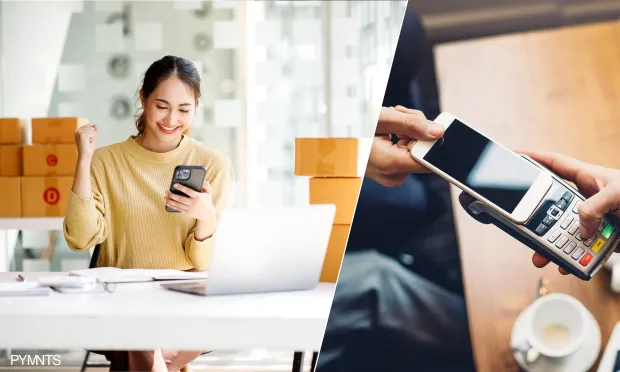
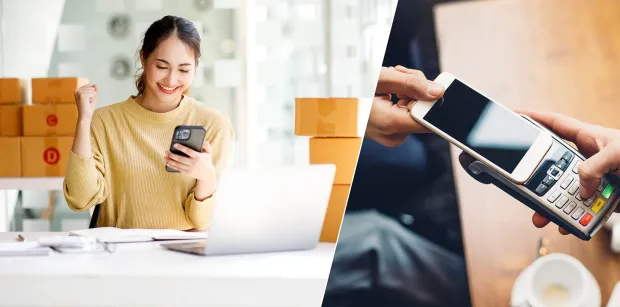
Estilos de cards / inclusión de h2 / modificación imagen de portada

diff --git a/index.html b/index.html
@@ -81,12 +81,12 @@
                   </ul>
               <!-- ************************ -->
               
-              <!-- Sesiones -->
+              <!-- Botones de lasSesiones -->
                 <div class="sesiones">
                     <button class="btn1"> <a href="./pages/inicio_sesion.html">Iniciar sesión</a> </button>
                     <button class="btn2"> <a href="./pages/abrir_cuenta.html">Abrir cuenta gratis</a> </button>
                 </div>
-              <!-- ********* -->
+              <!-- ********************** -->
               
               <!-- ****** MENÚ HAMBURGUESA ****** -->
               <div class="navbarHambur">
@@ -100,30 +100,30 @@
         
         <!-- ***************** Cuerpo Principal de la página ******************** -->
         <main>
+            <!-- Sección foto de portada -->
             <section class="portadaContainer">
                 <!-- foto principal o carousel .... -->
-                <img src="./img/portada2.png" alt="portada" class="portadaImg">
+                <img src="./img/portada1.png" alt="portada" class="portadaImg">
                 <div class="portadaContenido">
                   <div class="portadaTitulo">
                       <h1>Pay Solutions</h1>
                       <img src="./img/Logos/logo.png" alt="Logo">  
                   </div>
-                  <p>Desde ahora podes hacer más cosas con tu dinero</p>
+                  <p>Soluciones financieras en un click</p>
                 </div>
             </section>
-            <!-- 
-            letras encima de imagen 
-            https://www.youtube.com/watch?v=QwbNA0jCco4
-           -->
+            
+            <!-- Sección Personas -->
             <section>
-                <div class="container">
+              <h2>Personas</h2>  
+              <div class="container">
                   <!-- ***************** CARD 1 ***************** -->
                   <div class="card">
                       <div class="imagenCard">
                         <img src="./img/servicio1.png" alt="servicios 1">
                       </div>
                       <div class="contenido">
-                        <h2>card 1</h2>
+                        <h3>card 1</h3>
                         <p>Primer servicio representado en la card</p>
                         <a href="">Saber más</a>
                       </div>
@@ -135,7 +135,7 @@
                         <img src="./img/servicio1.png" alt="servicios 1">
                       </div>
                       <div class="contenido">
-                        <h2>card 1</h2>
+                        <h3>card 1</h3>
                         <p>Primer servicio representado en la card</p>
                         <a href="">Saber más</a>
                       </div>
@@ -147,49 +147,56 @@
                         <img src="./img/servicio1.png" alt="servicios 1">
                       </div>
                       <div class="contenido">
-                        <h2>card 1</h2>
+                        <h3>card 1</h3>
                         <p>Primer servicio representado en la card</p>
                         <a href="">Saber más</a>
                       </div>
                   </div>  
+              </div>
+            </section>  
+            
+            <!-- Sección Comercios -->
+            <section>
+              <h2>Comercios</h2>
+              <div class="container">
+                <!-- ***************** CARD 4 ***************** -->
+                <div class="card">
+                    <div class="imagenCard">
+                      <img src="./img/servicio1.png" alt="servicios 1">
+                    </div>
+                    <div class="contenido">
+                      <h3>card 1</h3>
+                      <p>Primer servicio representado en la card</p>
+                      <a href="">Saber más</a>
+                    </div>
+                </div>  
 
-                  <!-- ***************** CARD 4 ***************** -->
-                  <div class="card">
-                      <div class="imagenCard">
-                        <img src="./img/servicio1.png" alt="servicios 1">
-                      </div>
-                      <div class="contenido">
-                        <h2>card 1</h2>
-                        <p>Primer servicio representado en la card</p>
-                        <a href="">Saber más</a>
-                      </div>
-                  </div>  
+                <!-- ***************** CARD 5 ***************** -->
+                <div class="card">
+                    <div class="imagenCard">
+                      <img src="./img/servicio1.png" alt="servicios 1">
+                    </div>
+                    <div class="contenido">
+                      <h3>card 1</h3>
+                      <p>Primer servicio representado en la card</p>
+                      <a href="">Saber más</a>
+                    </div>
+                </div>  
 
-                  <!-- ***************** CARD 5 ***************** -->
-                  <div class="card">
-                      <div class="imagenCard">
-                        <img src="./img/servicio1.png" alt="servicios 1">
-                      </div>
-                      <div class="contenido">
-                        <h2>card 1</h2>
-                        <p>Primer servicio representado en la card</p>
-                        <a href="">Saber más</a>
-                      </div>
-                  </div>  
-
-                  <!-- ***************** CARD 6 ***************** -->
-                  <div class="card">
-                      <div class="imagenCard">
-                        <img src="./img/servicio1.png" alt="servicios 1">
-                      </div>
-                      <div class="contenido">
-                        <h2>card 1</h2>
-                        <p>Primer servicio representado en la card</p>
-                        <a href="">Saber más</a>
-                      </div>
-                  </div>  
+                <!-- ***************** CARD 6 ***************** -->
+                <div class="card">
+                    <div class="imagenCard">
+                      <img src="./img/servicio1.png" alt="servicios 1">
+                    </div>
+                    <div class="contenido">
+                      <h3>card 1</h3>
+                      <p>Primer servicio representado en la card</p>
+                      <a href="">Saber más</a>
+                    </div>
                 </div>
+              </div>  
             </section>
+            
         </main>
 
         <footer>

diff --git a/css/style.css b/css/style.css
@@ -148,73 +148,6 @@ body {
     width: 36px;
 }
 
-/* ***** NAVBAR RESPONSIVE ***** */
-/* @media (min-width: 800px) {
-    .navbarHambur {
-        display: flex;
-    }
-
-    .navbarItem {
-        --clip: 0;
-        overflow: hidden;
-    }
-
-    .navbarItem--active {
-        --transform: rotate(0);
-        --background: var(--verde_claro)
-    }
-
-    .navbarItem--show {
-        background-color: var(--verde_claro);
-    }
-
-    .navbarLinks {
-        position: fixed;
-        max-width: 400px;
-        width: 100%;
-        top: 70px;
-        bottom: 0;
-        right: 0;
-        background-color: var(--negro);
-        overflow-y: auto;
-        display: grid;
-        grid-auto-rows: max-content;
-        transform: translateX(100%);
-    }
-
-    .navbarLinks--show {
-        transform: unset;
-        width: 100%;
-    }
-
-    .navbarLink {
-        padding: 25px 0;
-        padding-left: 30px;
-        height: auto;
-    }
-
-    .navbarFlecha {
-        margin-left: auto;
-        margin-right: 20px;
-    }
-
-    .navbarDesplegable {
-        display: grid;
-        position: unset;
-        width: 100%;
-        transform: translateY(0);
-        height: 0;
-        transition: height 0.3s;
-    }
-
-    .navbarLink--inside {
-        width: 90%;
-        margin-left: auto;
-        border-left: 1px solid var(--celeste);
-    }
-} */
-
-
 
 /* ------------- BOTONES ------------ */
 /* ---------------------------------- */
@@ -282,24 +215,69 @@ https://ovdivi.com/10-botones-creativos-con-increibles-efectos-hover-para-tus-si
 /* ************** FOTO PORTADA ************** */
 /* ****************************************** */
 
-/* Copiar los estilos del container de las cards!!!! */
 .portadaContainer {
-    width: 1350px;
-    height: auto;
-    border: 2px solid rgba(149, 102, 238, 0.6);
-    border-radius: 45px;
-    padding: 30px;
-    margin: 30px auto;
+    position: relative;
+    display: flex;
+    justify-content: center;
+    flex-wrap: wrap;
+    margin: 0 5px 40px 0;
+    overflow: hidden;
+    /* sombra de la imagen */
+    box-shadow: 5px 8px 12px var(--negro);
 }
 
 .portadaImg {
-    width: 1000px;
+    width: 100%;
     height: auto;
+}
+
+/* Titulo sobre la imagen */
+.portadaTitulo {
+    display: flex;
+    justify-content: space-between;
+    gap: 17px;
+    font-size: 40px;
+    color: var(--negro);
+    font-weight: 1000;
+    /* Posición sobre la imagen */
+    position: absolute;
+    top: 60%;
+    left: 7%;
+}
+
+.portadaTitulo img {
+    width: 180px;
+    height: auto;
+    border-radius: 10px;    
+}
+
+/* texto sobre la imagen */
+.portadaContenido p {
+    font-size: 30px;
+    color: var(--negro);
+    font-weight: 700;
+    /* posición del texto sobre imagen */
+    position: absolute;
+    top: 77%;
+    left: 7%;
 
 }
 
+
 /* ******************* CARDS *************** */
 /* ****************************************** */
+
+/* Títulos de sección */
+
+h2 {
+    font-family: "Plus Jakarta Sans", sans-serif;
+    margin: 0 0 -20px 65px;
+    font-size: 45px;
+    color: var(--negro);
+    font-weight: 900;
+}
+
+/* ****************** */
 
 .container {
     position: relative;
@@ -311,7 +289,7 @@ https://ovdivi.com/10-botones-creativos-con-increibles-efectos-hover-para-tus-si
     /* borde container cards */
     border-radius: 45px;
     margin: 25px;
-    background: rgba(149, 102, 238, 0.6);
+    background: rgba(149, 102, 238, 0.4);
 }
 
 .container .card {
@@ -374,7 +352,7 @@ https://ovdivi.com/10-botones-creativos-con-increibles-efectos-hover-para-tus-si
     height: 250px;
 }
 
-.container .card .contenido h2 {
+.container .card .contenido h3 {
     font-size: 1.5rem;
     font-weight: 700;
     color: var(--negro);
